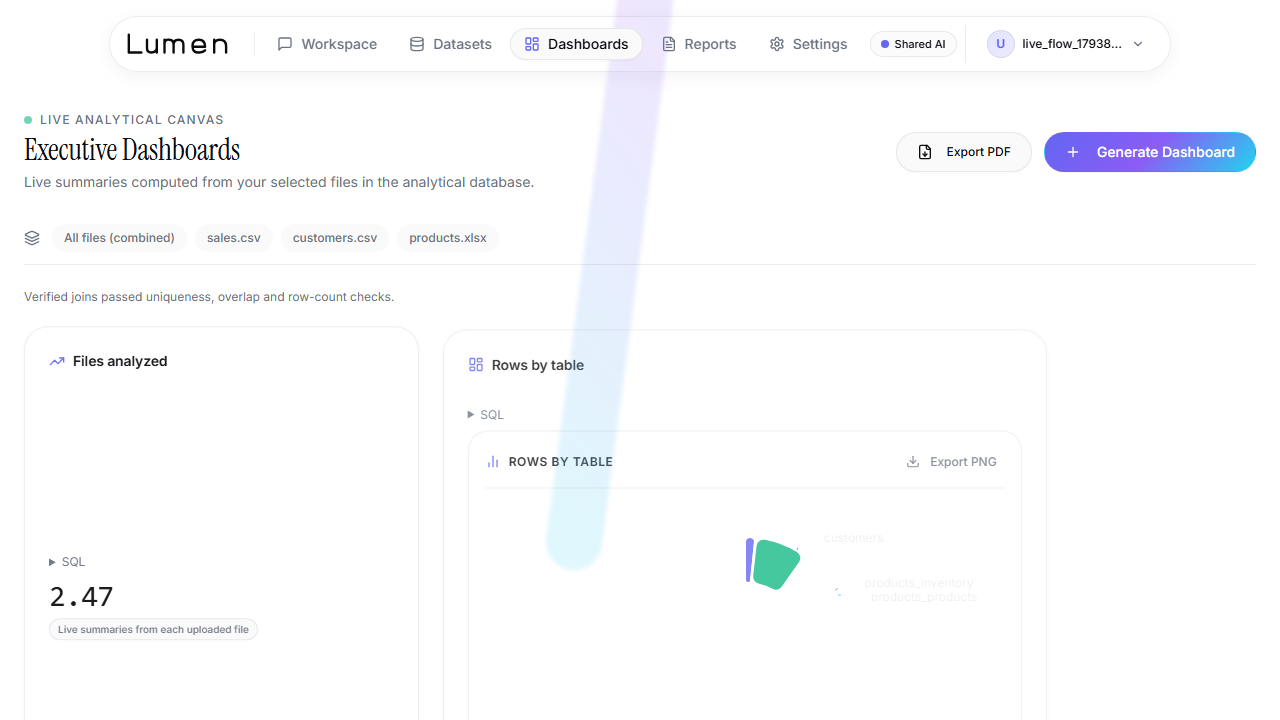
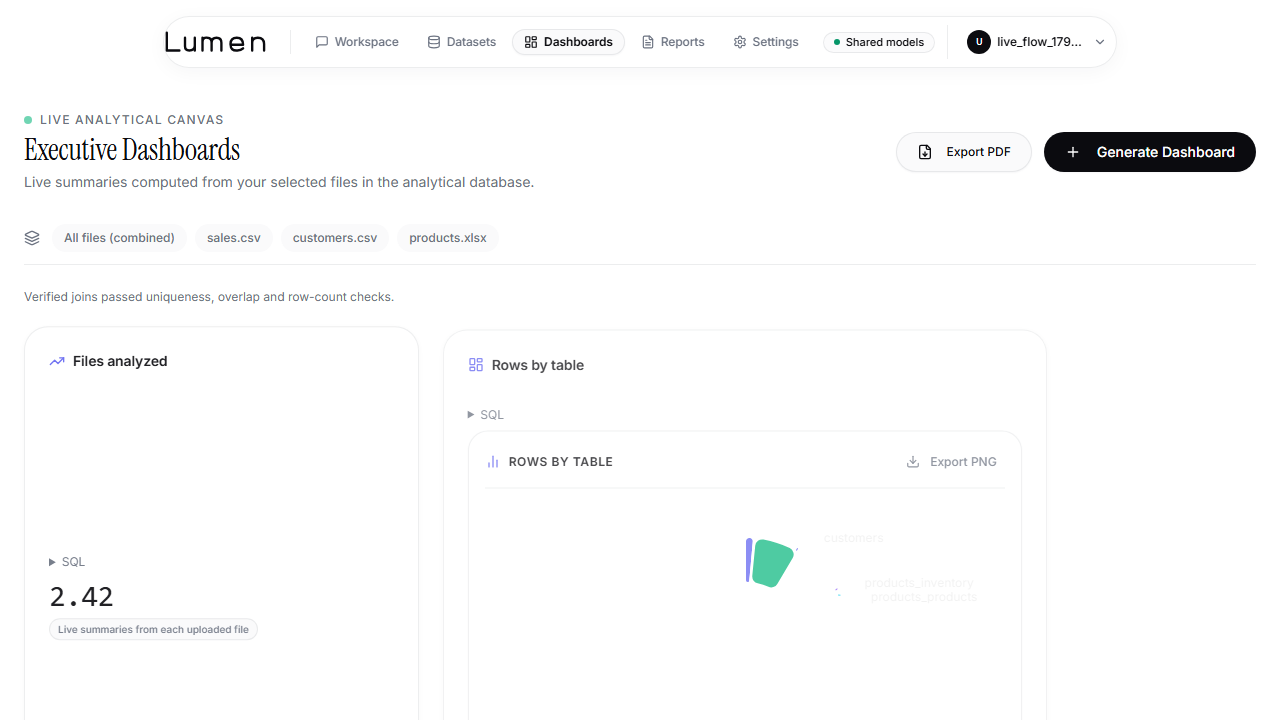
chore(auto): checkpoint 2026-11-04T19:45:34Z

diff --git a/frontend/e2e/dashboards_reports_settings.spec.ts b/frontend/e2e/dashboards_reports_settings.spec.ts
@@ -1,6 +1,17 @@
 import { test, expect } from "@playwright/test";
 
 test.describe("Dashboards, Reports, Settings, Command Palette & 404 E2E", () => {
+  test.beforeEach(async ({ page, request }) => {
+    const testEmail = `drs_${Date.now()}_${Math.floor(Math.random() * 1000)}@example.com`;
+    const regRes = await request.post("/api/v1/auth/register", {
+      data: { email: testEmail, password: "PassWord123!", full_name: "DRS Tester" },
+    });
+    if (regRes.ok()) {
+      const { access_token: token } = await regRes.json();
+      await page.addInitScript((val: string) => localStorage.setItem("lumen_access_token", val), token);
+    }
+  });
+
   test("dashboards: empty state and live generation error without uploaded data", async ({ page }) => {
     await page.goto("/dashboards");
     await expect(page.locator("h1")).toContainText("Executive Dashboards");

diff --git a/frontend/src/components/Navbar.tsx b/frontend/src/components/Navbar.tsx
@@ -164,9 +164,9 @@ export const Navbar: React.FC = () => {
                 {connection?.connected
                   ? connection.provider_id?.toUpperCase()
                   : providerMode === "mock"
-                  ? "Offline demo"
+                  ? "Shared AI (Demo)"
                   : providerMode
-                  ? "Shared models"
+                  ? "Shared AI"
                   : "Model unavailable"}
               </span>
             </button>
